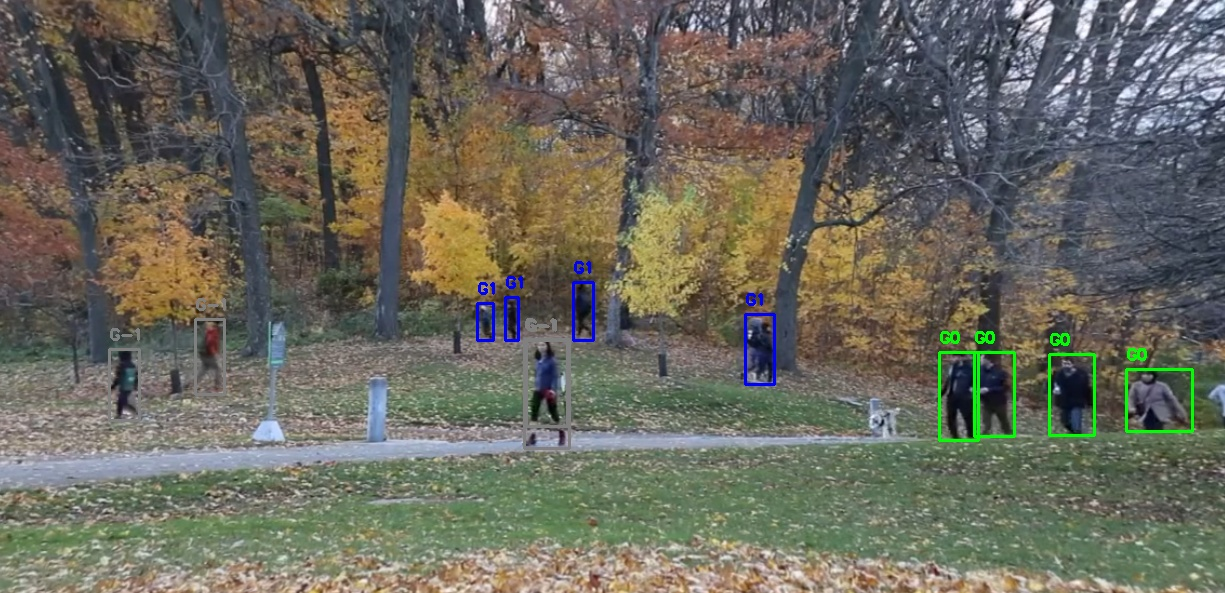
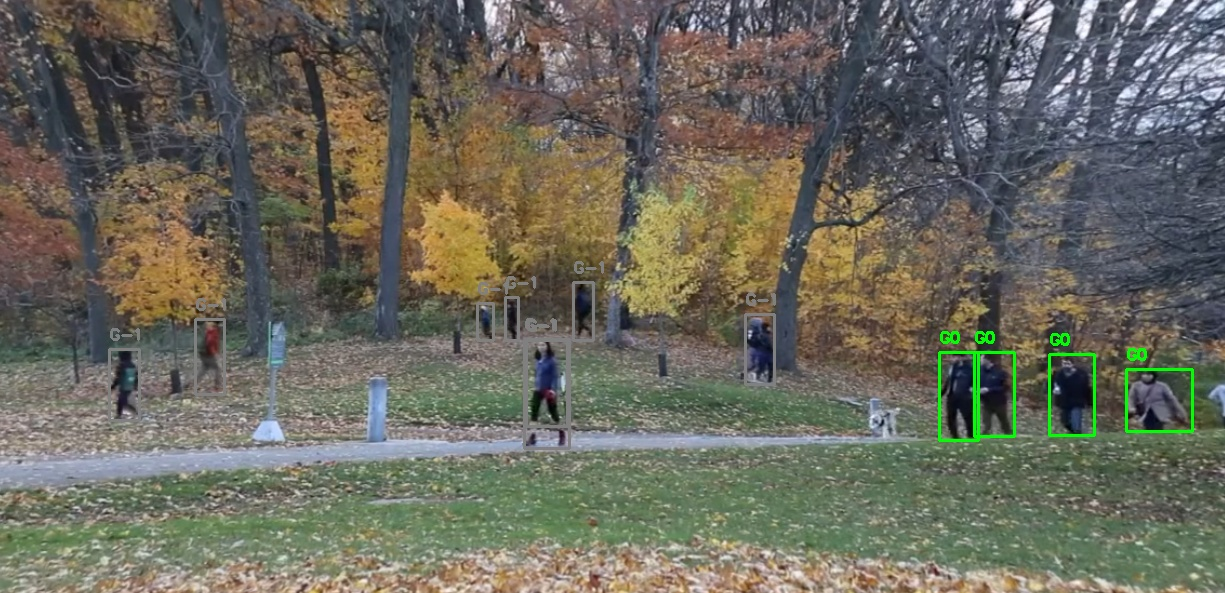
updations to phase B

Changed region(s): [[0.5894, 0.4857, 0.6514, 0.6678], [0.3722, 0.4553, 0.4343, 0.5767], [0.4653, 0.425, 0.4963, 0.5767]]

diff --git a/plain2D/videoPipeline.py b/plain2D/videoPipeline.py
@@ -11,8 +11,7 @@ import cv2
 import sys
 import os
 sys.path.append(r'D:\Antares\plain2D')
-# from VidyoloDetect import detect_people
-from PBVideopipeline import detect_people
+from VidyoloDetect import detect_people
 from penalizedDist import extract_metrics, get_penalized_dist
 from sklearn.cluster import DBSCAN
 # import numpy as np

diff --git a/plain2D/PBgroupPersistance.py b/plain2D/PBgroupPersistance.py
@@ -1,0 +1,14 @@
+# file 8
+import math
+import sys
+sys.path.append(r'D:\Antares\plain2D')
+
+class PersistanceGroupTracker:
+    {
+    "members": {5,17,20},
+    "last_seen": 145,
+    "created_at": 120,
+    "age": 25,
+    "color": (255,0,0),
+    "active": True
+}

diff --git a/run_pipeline.py b/run_pipeline.py
@@ -95,6 +95,7 @@ if __name__ == '__main__':
     
     # Step 5: Clustering (try multiple eps values)
     # for eps in [0.8, 1.2, 1.5, 2.0]:
+    eps=1.2
     labels = get_distance(position_3d, eps=eps, min_samples=4)
     
     # Step 6: Visualize with best eps

diff --git a/plain2D/PBDBSCANdetect.py b/plain2D/PBDBSCANdetect.py
@@ -1,4 +1,4 @@
-# file 3
+# file 7
 import numpy as np
 import matplotlib.pyplot as plt
 import matplotlib.patches as patches

diff --git a/plain2D/PBpenalizedDist.py b/plain2D/PBpenalizedDist.py
@@ -1,3 +1,4 @@
+# file 6
 import math
 import sys
 sys.path.append(r'D:\Antares\plain2D')
